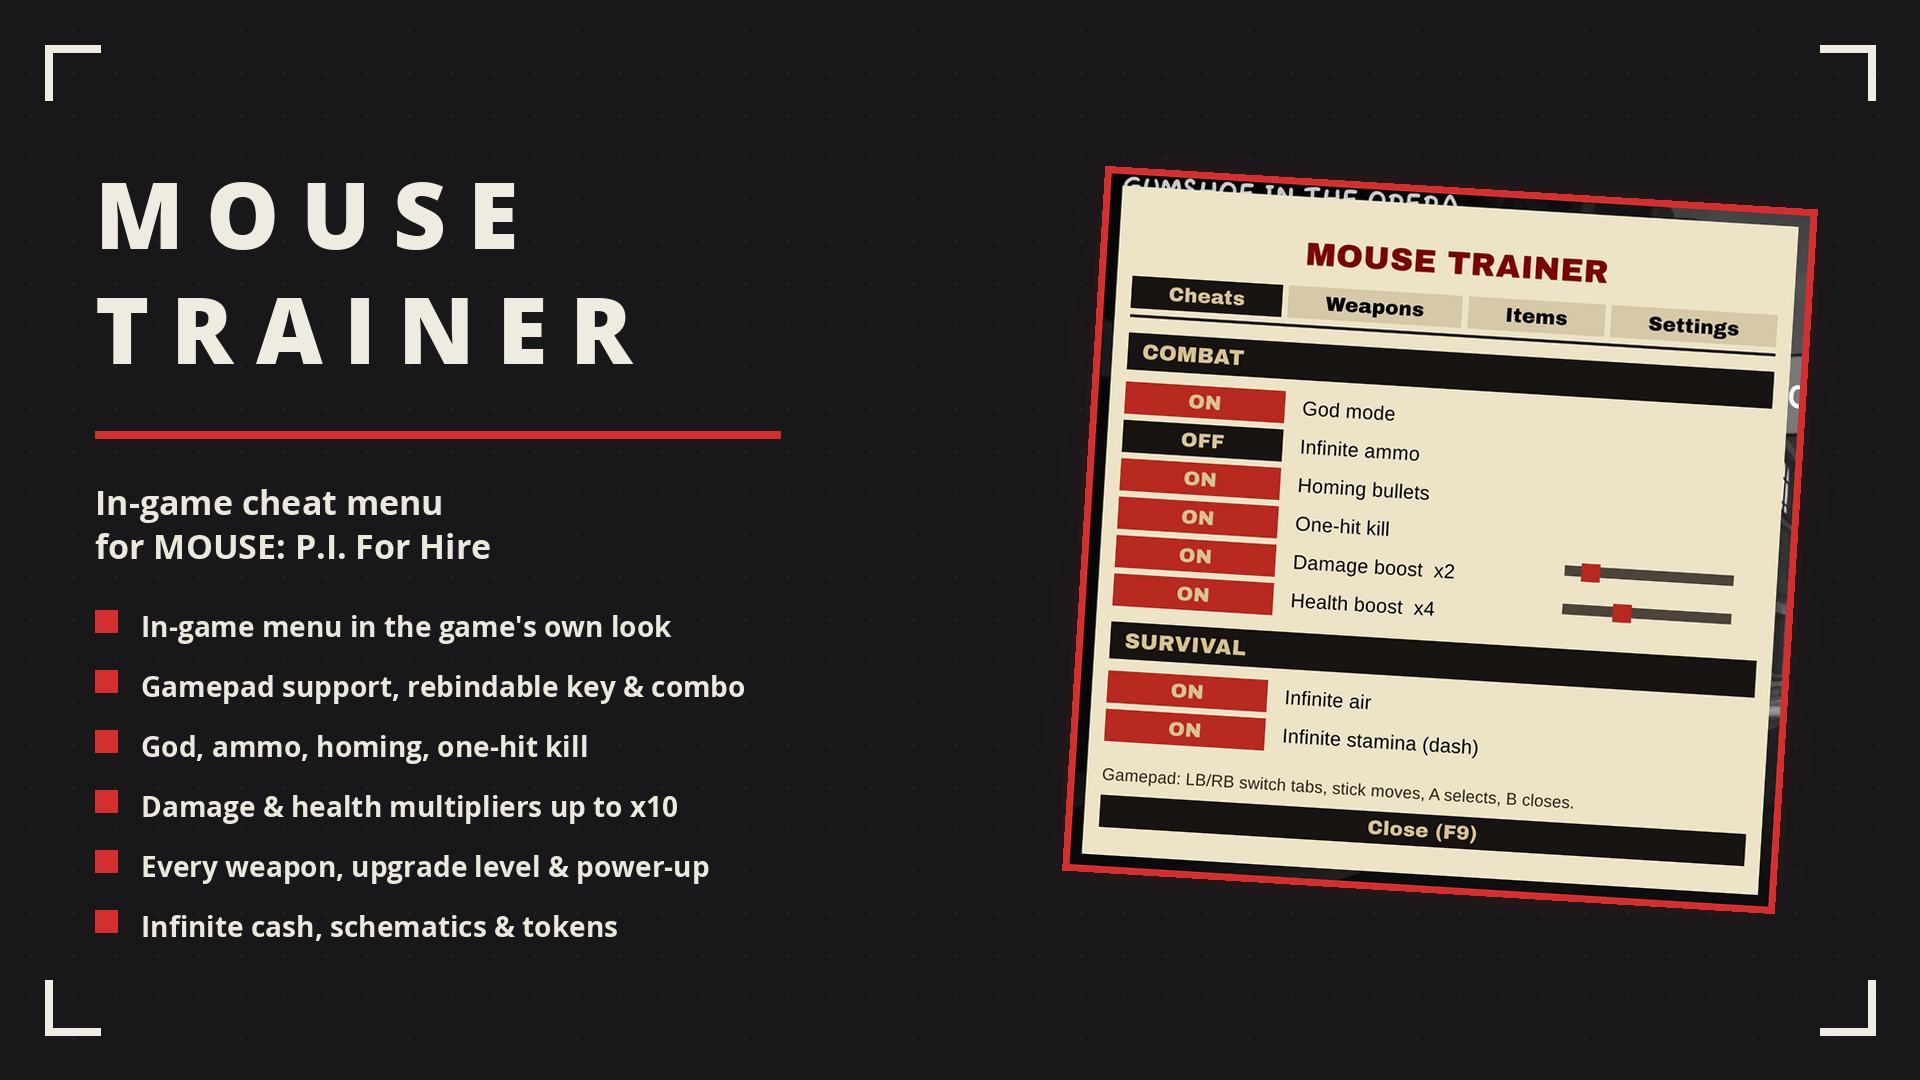
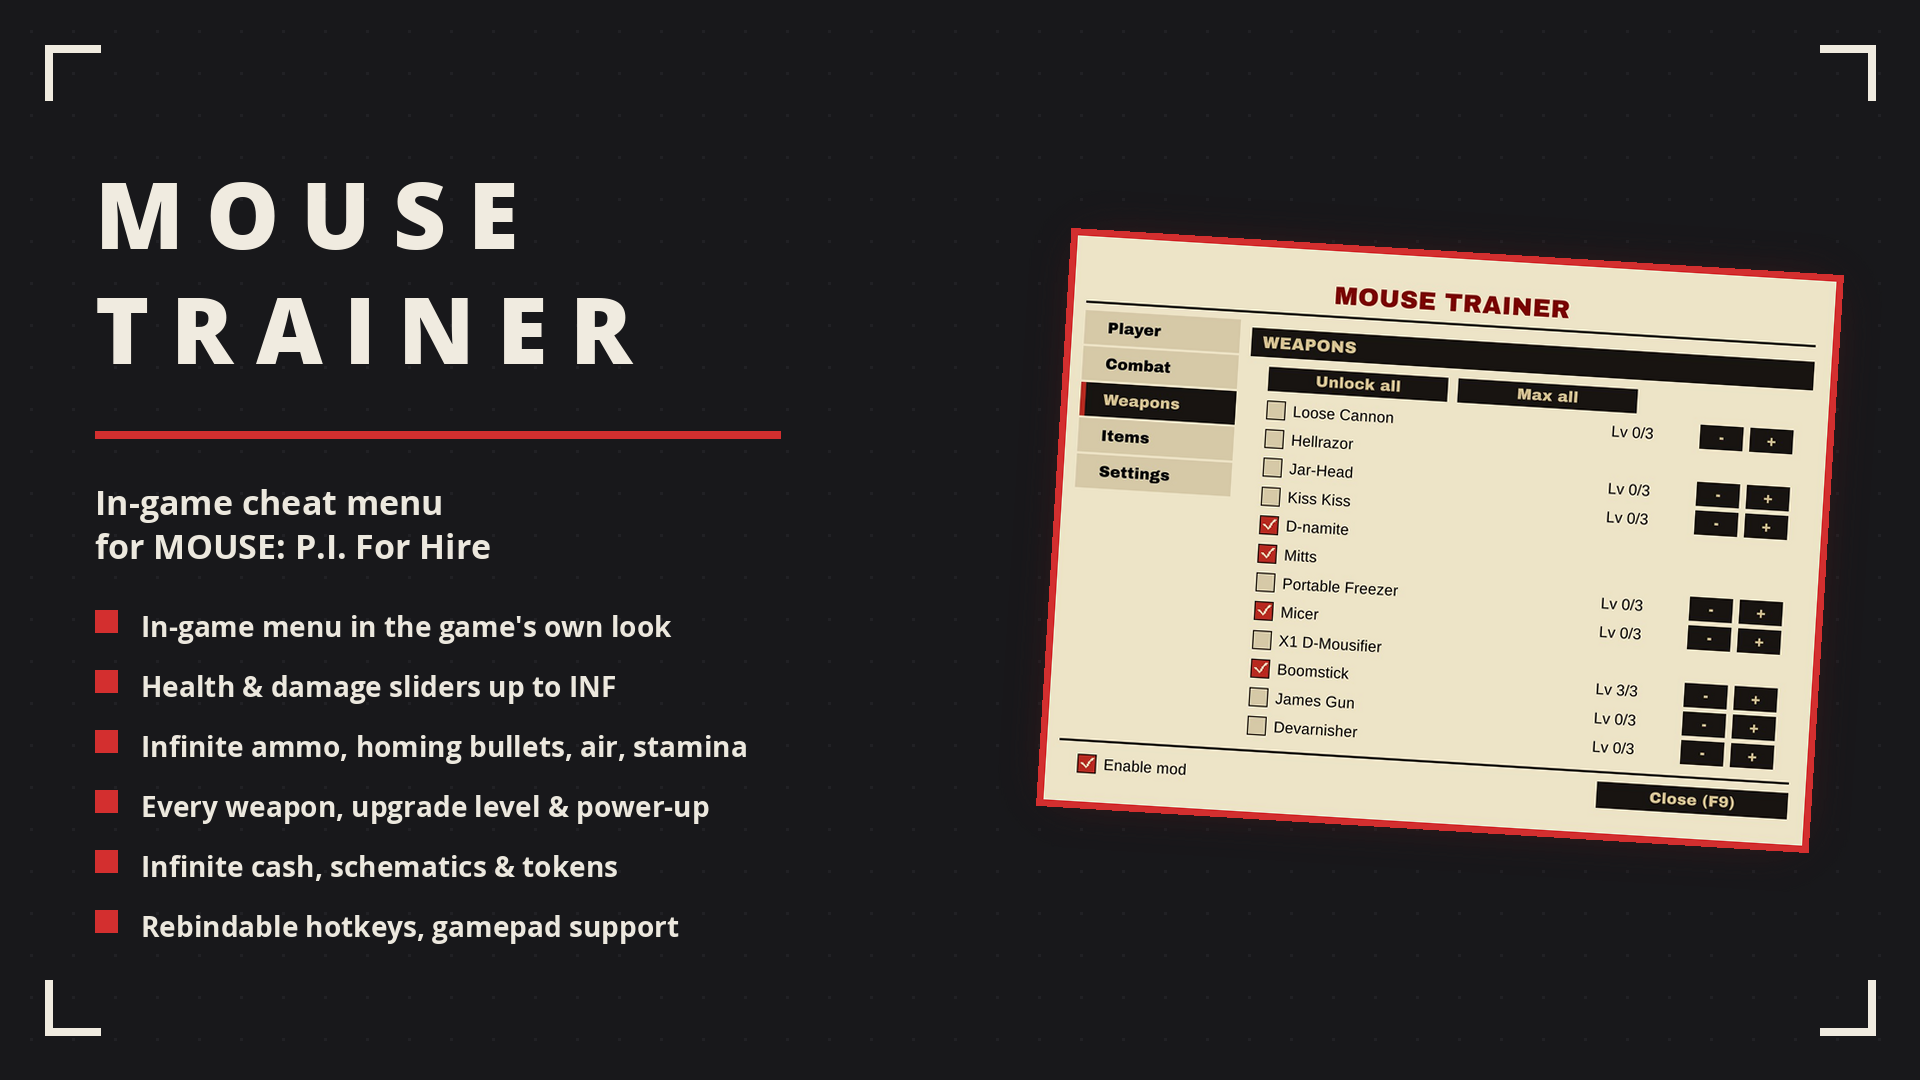
MouseTrainer 2.3.0: tabs on the left, INF sliders, rebindable hotkeys

diff --git a/MOUSE/MouseTrainer/README.md b/MOUSE/MouseTrainer/README.md
@@ -7,17 +7,18 @@
 In-game cheat menu for MOUSE: P.I. For Hire, in the game's own paper-and-ink look. Press F9 (or L3+R3 on a gamepad) for the menu, or use the F1-F8 hotkeys with an on-screen toast per toggle.
 
 ## ✨ Features
-- In-game menu on F9 with the game's fonts, four tabs: Cheats, Weapons, Items, Settings
+- In-game menu on F9 with the game's fonts, tabs for Player, Combat, Weapons, Items and Settings
 - Full gamepad control, no mouse needed (see Controls below)
-- God mode, infinite ammo, one-hit kill, homing bullets (locks every shot onto the enemy closest to your crosshair, respects line of sight, no spread)
-- Damage and health multipliers x1-x10
+- Health and damage sliders from x1 to INF: INF is god mode on health and one-hit kill on damage
+- Fine 0.1 steps for damage, down to x0.1
+- Infinite ammo and homing bullets (locks every shot onto the enemy closest to your crosshair, respects line of sight, no spread)
 - Infinite air and stamina
 - Cash, schematics and prize tokens: add, remove or set to infinite
-- Every weapon: own/lock button and upgrade level 0-3, plus unlock all and max all
+- Every weapon: own/lock and upgrade level 0-3, plus unlock all and max all
 - Power-ups +1/-1
-- Rebindable menu key and gamepad combo, menu size slider (auto-scales for 4K)
-- F1-F8 hotkeys for the main toggles, each cheat independent
-- No game files modified — safe to add or remove at any time
+- Settings tab: menu size, gamepad on or off, gamepad combo and every hotkey rebindable
+- Enable mod switch that turns every cheat off at once
+- No game files modified, safe to add or remove at any time
 
 ## 🎮 Controls
 | Input | Action |
@@ -27,16 +28,20 @@ In-game cheat menu for MOUSE: P.I. For Hire, in the game's own paper-and-ink loo
 | LB / RB | switch tabs |
 | A | select |
 | B | close |
-| Left / right | set the multipliers |
+| Left / right | move the sliders |
 
 ## 📸 Screenshots
-![menu](screenshots/01-cheats.png)
+![player](screenshots/01-player.png)
+![combat](screenshots/02-combat.png)
+![weapons](screenshots/03-weapons.png)
+![items](screenshots/04-items.png)
+![settings](screenshots/05-settings.png)
 
 ## 🌍 Translating
 Texts live in `I18n.cs`, one dictionary per language keyed by the English string. To add a language, copy the dictionary, translate the values and return it from `PickTable`.
 
 ## 📦 Install
-Requires [Patch for BepInEx MOUSE P.I. For Hire](https://www.nexusmods.com/mousepiforhire/mods/1) (BepInEx 5 x64). Download on [Nexus Mods](https://www.nexusmods.com/mousepiforhire/mods/23) and extract into the game folder — the DLL lands in `BepInEx/plugins/MouseTrainer.dll`.
+Requires [Patch for BepInEx MOUSE P.I. For Hire](https://www.nexusmods.com/mousepiforhire/mods/1) (BepInEx 5 x64). Download on [Nexus Mods](https://www.nexusmods.com/mousepiforhire/mods/23) and extract into the game folder, the DLL lands in `BepInEx/plugins/MouseTrainer.dll`.
 
 ## 🔗 Links
 - Mod page: https://www.nexusmods.com/mousepiforhire/mods/23
